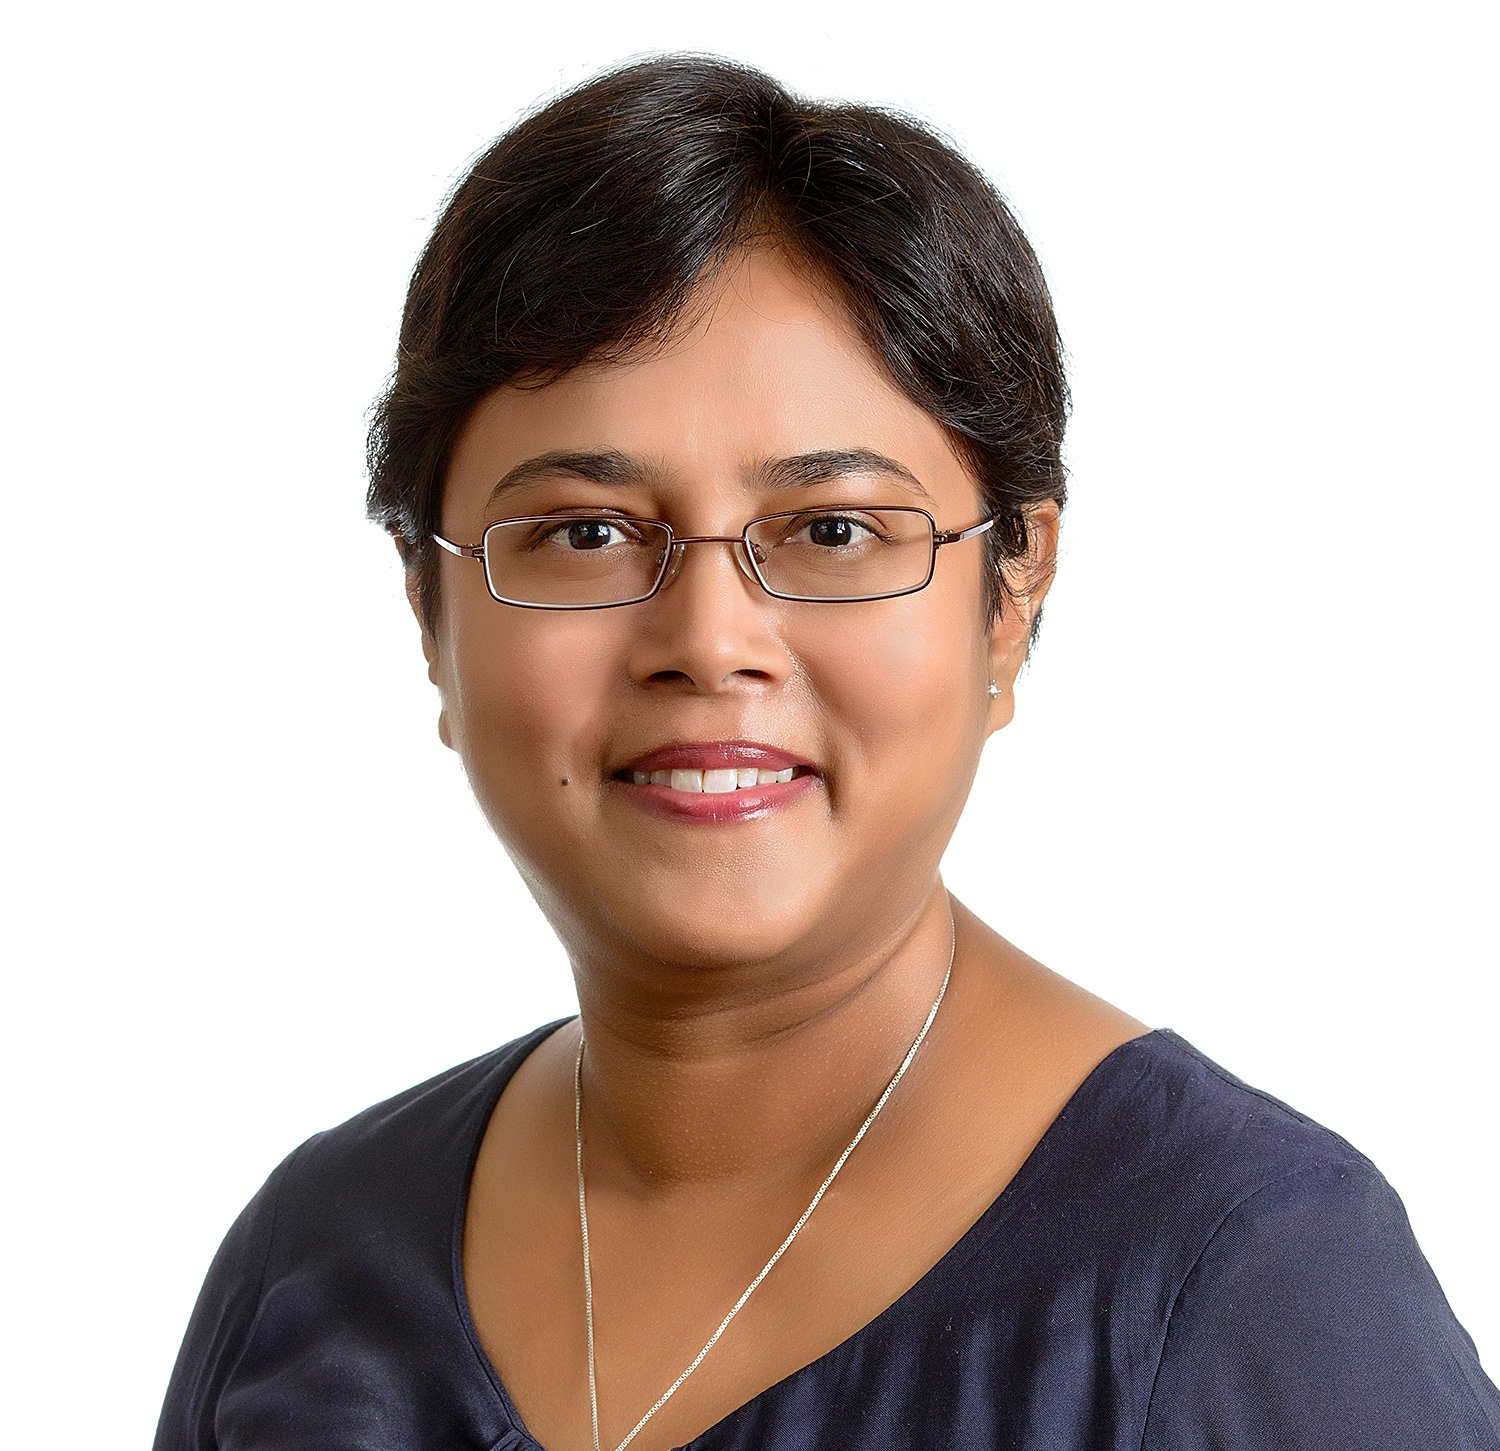
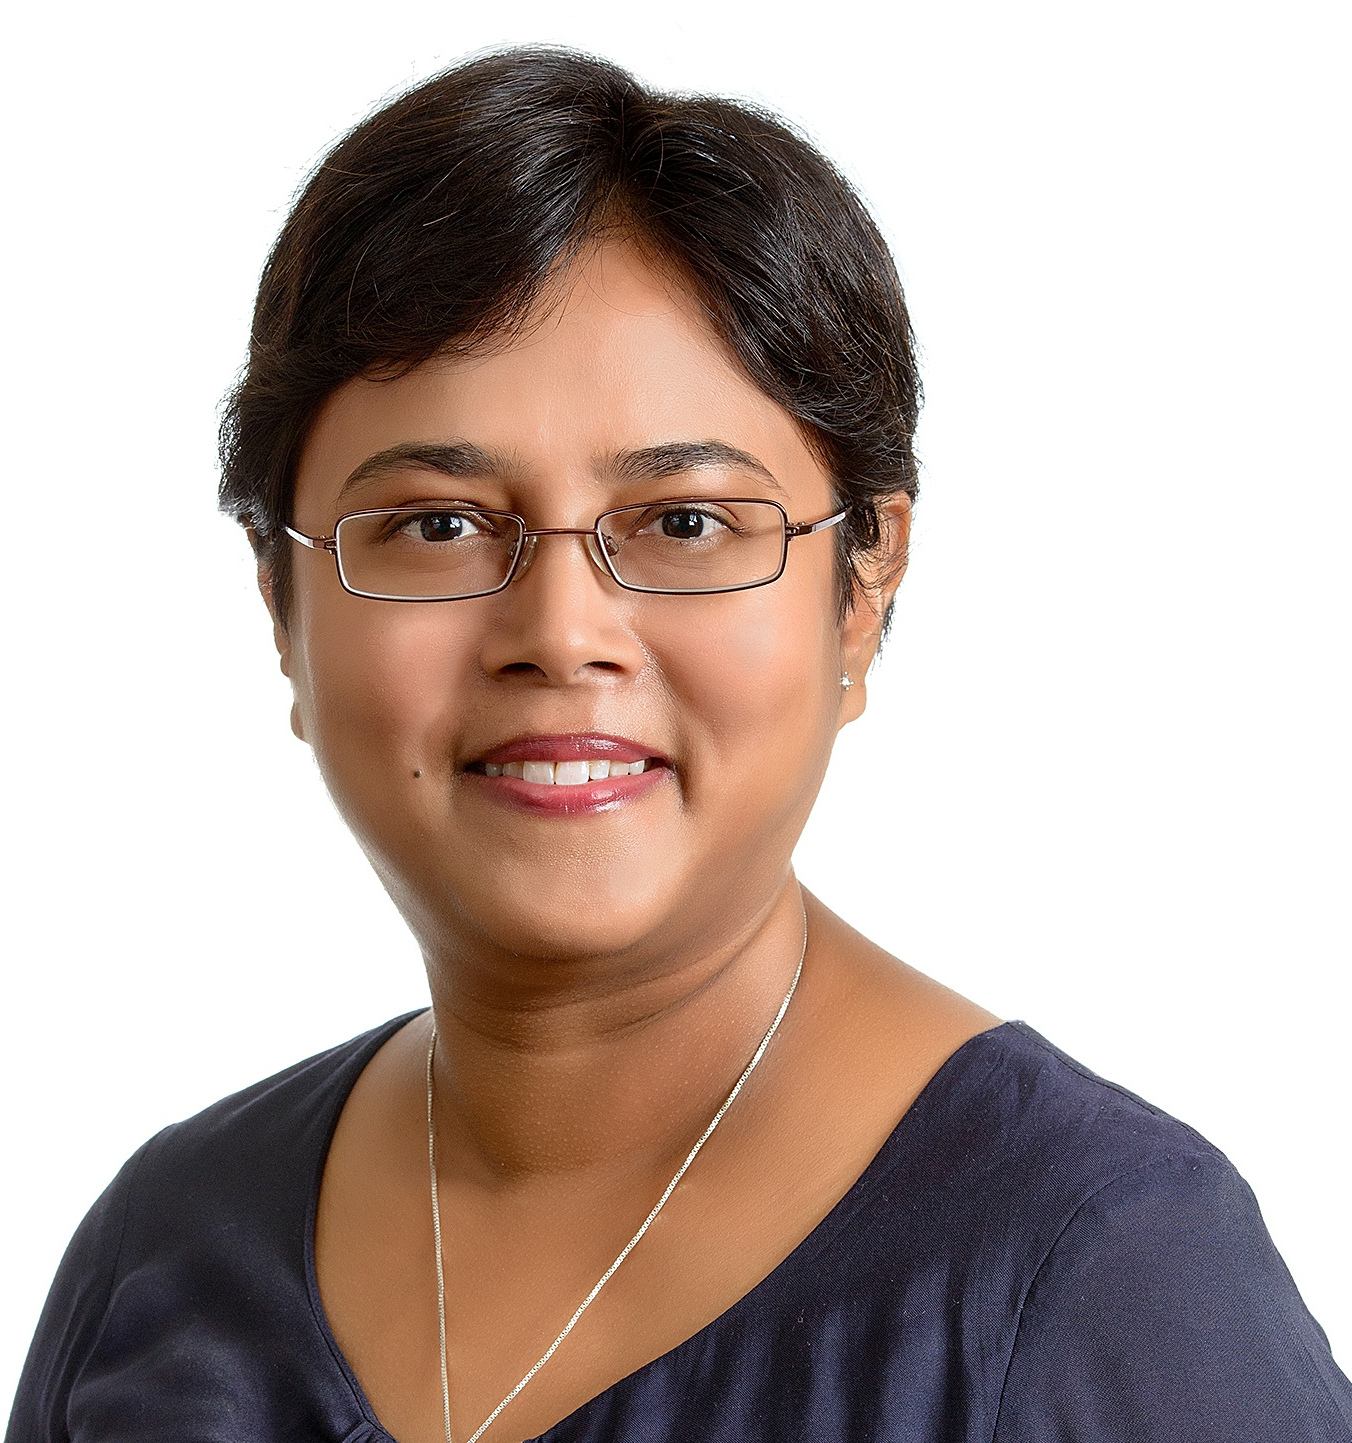
Changed the ratio of the image.

diff --git a/styles/css/layout.css b/styles/css/layout.css
@@ -550,7 +550,7 @@
 
   .keynote-speaker img {
           height: 300px;
-          width: 245px;
+          width: 281px;
   }
 
   .keynote-speaker .kn-name {
